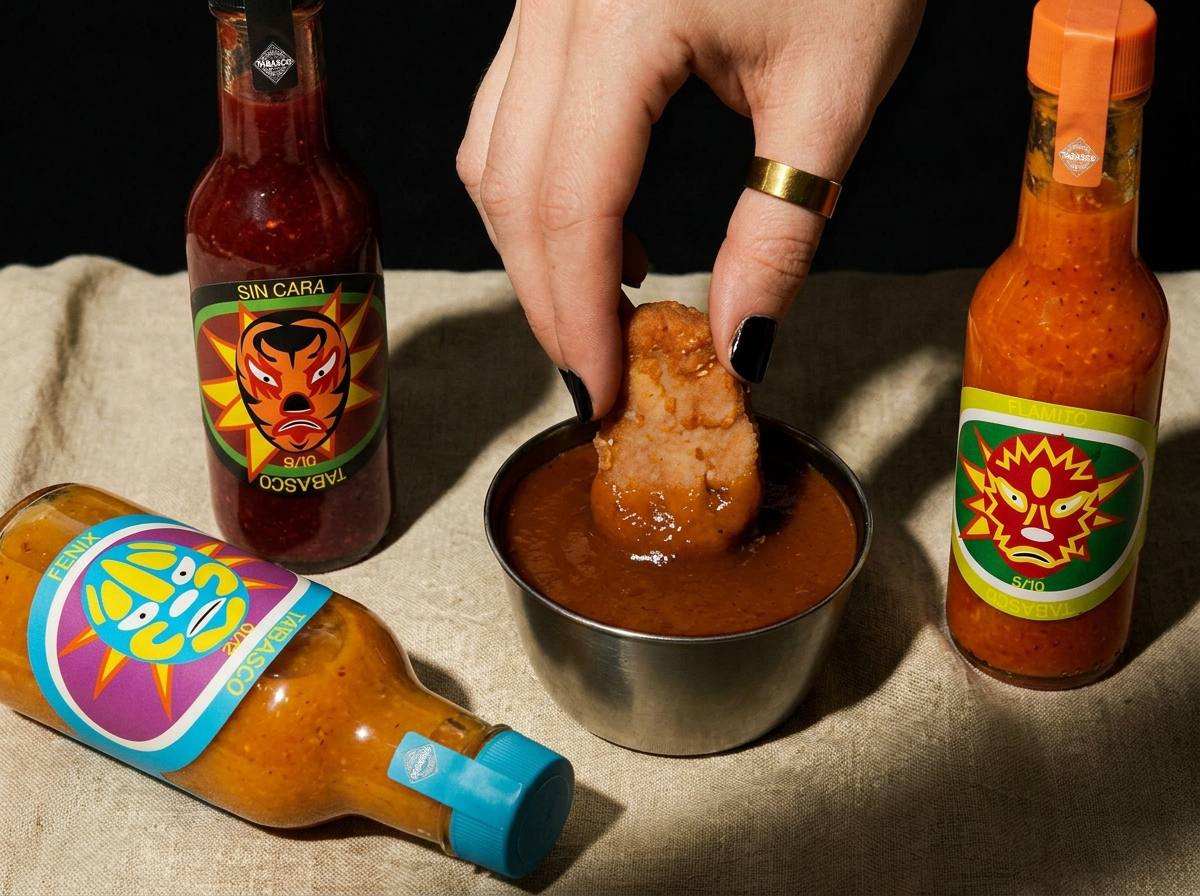
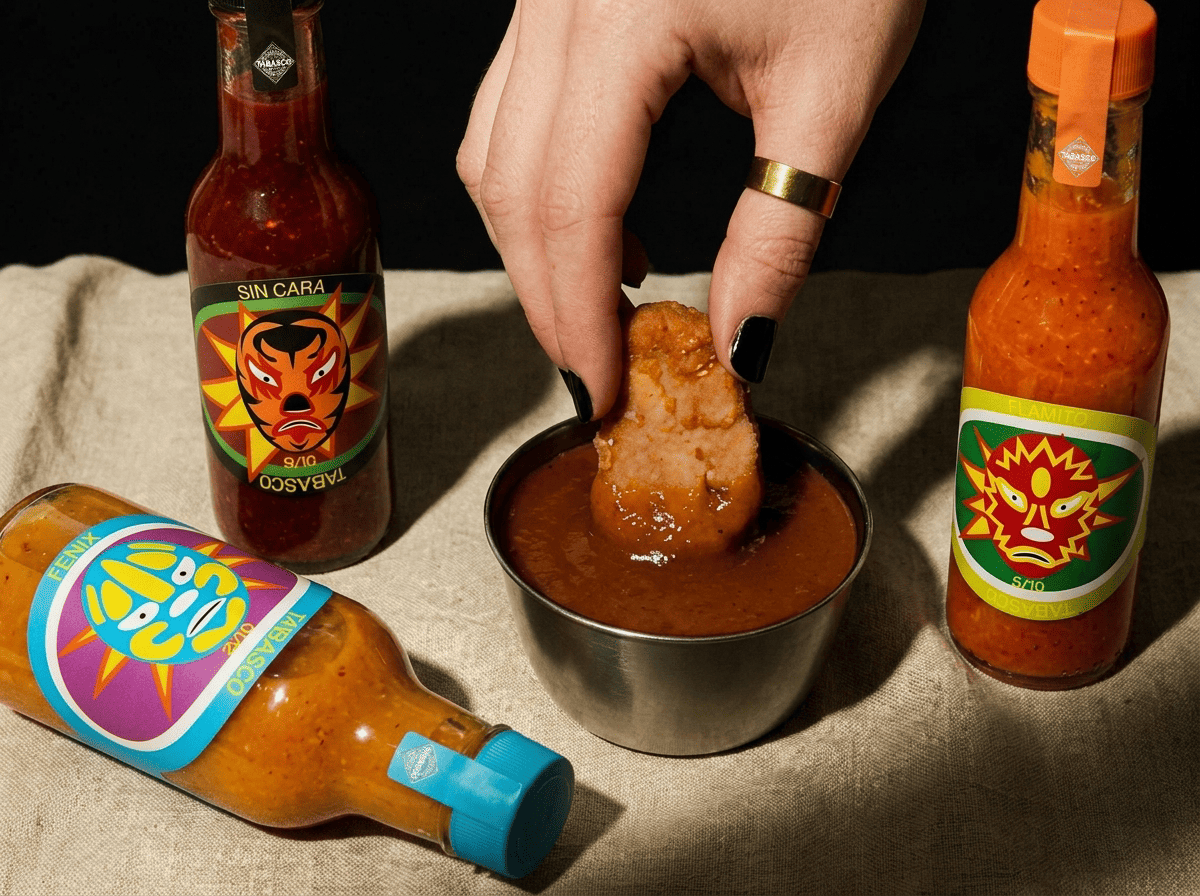
image changement

diff --git a/index.html b/index.html
@@ -31,7 +31,7 @@
     <h2>Amisum</h2>
     </a>
     <a class="item-grid contain" href="sauce.html">
-    <img src="image/image/sauce/mockup2.jpeg" alt="Sauce">
+    <img src="image/image/sauce/mockup2.png" alt="Sauce">
     <h2>Sauce</h2>
     </a>
     <a class="item-grid contain" href="gangster.html">
